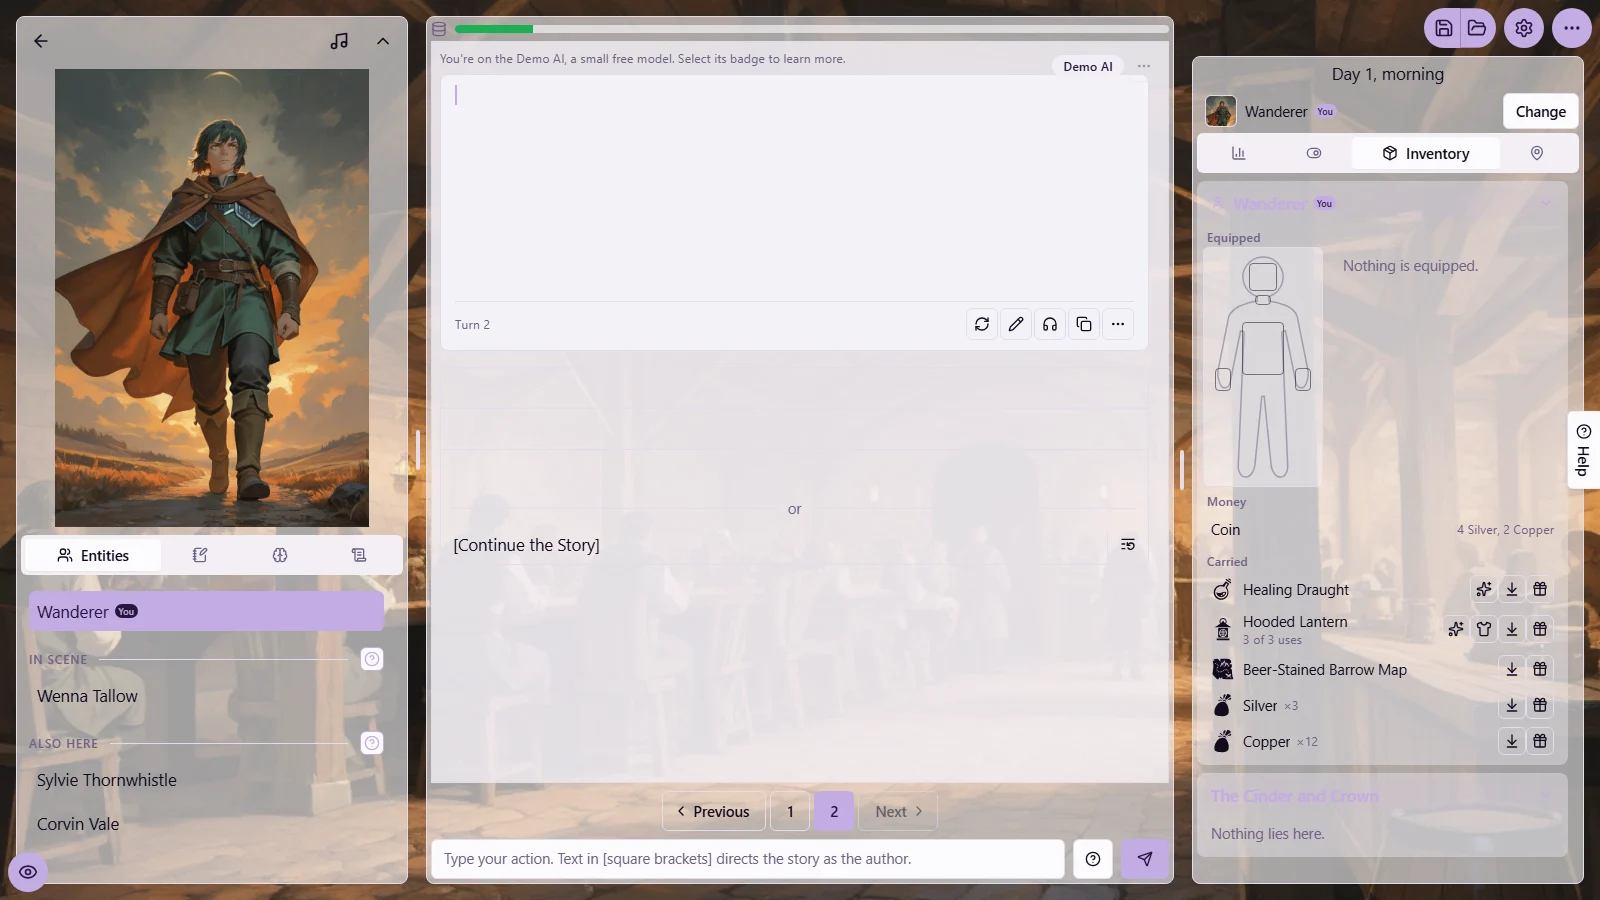
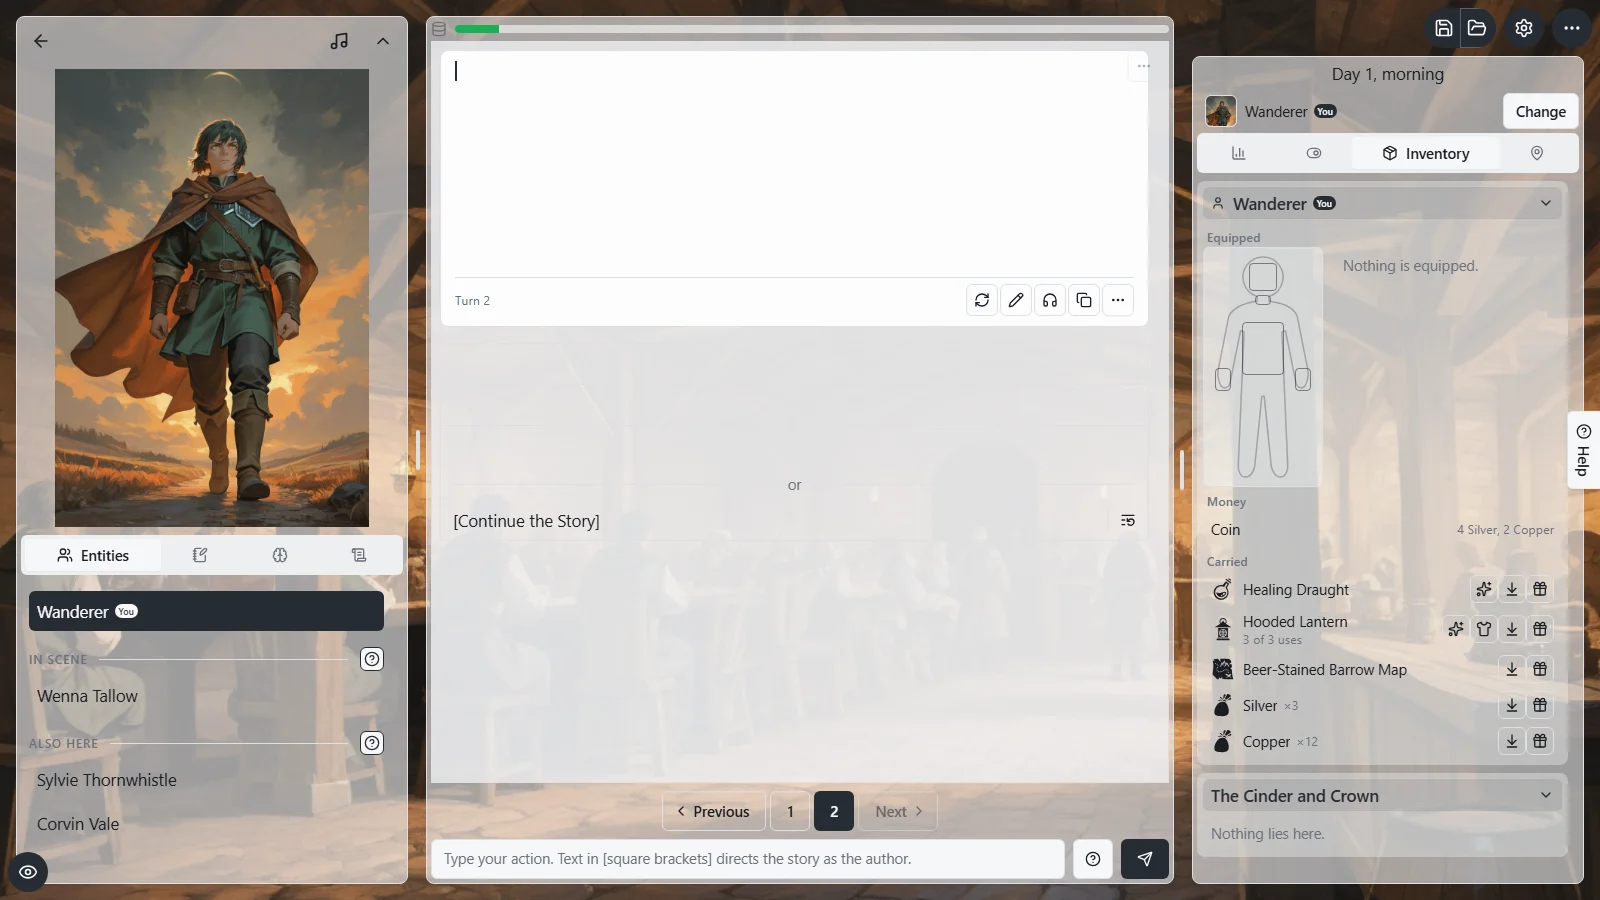
Make The Landing Showcase Neutral
Review found the purple hero frames and gradient hotspots clashing with the site's kept neutrals (Q4). The hero recaptures in Graphite, the tour opens on Graphite (Q11 reversed, Q13), and hotspots use the text color.
The Play button's pink edge was its gradient tiling into the transparent border; it now starts at the border box.
The header mismatch was a stale local site-dist build from before ticket 01, not code.

diff --git a/e2e/landing.spec.ts b/e2e/landing.spec.ts
@@ -202,14 +202,14 @@ test.describe('landing feature tour', () => {
       await centerStep(page, id);
       await expect(page.locator(`.step[data-step="${id}"]`)).toHaveClass(/\bcur\b/);
       await expect(page.locator('.step.cur')).toHaveCount(1);
-      const want = id === 'inventory' ? '/site/shots/hero/dark/inv-full.webp' : `/site/shots/purple/dark/${id}.webp`;
+      const want = id === 'inventory' ? '/site/shots/hero/dark/inv-full.webp' : `/site/shots/graphite/dark/${id}.webp`;
       await expect(page.locator('[data-base]')).toHaveAttribute('src', want);
       // The frame really decodes: a broken src has no natural width.
       await expect.poll(() => page.locator('[data-base]').evaluate((i: HTMLImageElement) => i.naturalWidth)).toBeGreaterThan(600);
     }
     // Scrolling back up returns the earlier screenshot.
     await centerStep(page, '02-game');
-    await expect(page.locator('[data-base]')).toHaveAttribute('src', '/site/shots/purple/dark/02-game.webp');
+    await expect(page.locator('[data-base]')).toHaveAttribute('src', '/site/shots/graphite/dark/02-game.webp');
   });
 
   test('every hotspot is reachable with Tab and shows its note on focus', async ({ page }, testInfo) => {
@@ -255,27 +255,27 @@ test.describe('landing feature tour', () => {
     const box = (await frame.boundingBox())!;
     const at = (pct: number) => box.x + box.width * pct;
     const y = box.y + box.height * 0.5;
-    expect(await pressed(page)).toBe('Purple theme');
+    expect(await pressed(page)).toBe('Graphite theme');
 
     // Short of the middle: the preview shows, then the current palette comes back.
     await page.mouse.move(at(0.95), y);
     await page.mouse.down();
     await page.mouse.move(at(0.7), y, { steps: 5 });
     expect(parseFloat(await cut(page))).toBeCloseTo(70, 0);
-    await expect(page.locator('[data-over]')).toHaveAttribute('src', '/site/shots/graphite/dark/02-game.webp');
+    await expect(page.locator('[data-over]')).toHaveAttribute('src', '/site/shots/purple/dark/02-game.webp');
     await expect(page.locator('[data-bar]')).not.toHaveClass(/\bhide\b/);
     await page.mouse.up();
     expect(await cut(page)).toBe('100%');
-    expect(await pressed(page)).toBe('Purple theme');
-    await expect(page.locator('[data-base]')).toHaveAttribute('src', '/site/shots/purple/dark/02-game.webp');
+    expect(await pressed(page)).toBe('Graphite theme');
+    await expect(page.locator('[data-base]')).toHaveAttribute('src', '/site/shots/graphite/dark/02-game.webp');
 
     // Past the middle: the next palette stays.
     await page.mouse.move(at(0.95), y);
     await page.mouse.down();
     await page.mouse.move(at(0.3), y, { steps: 5 });
     await page.mouse.up();
-    expect(await pressed(page)).toBe('Graphite theme');
-    await expect(page.locator('[data-base]')).toHaveAttribute('src', '/site/shots/graphite/dark/02-game.webp');
+    expect(await pressed(page)).toBe('Purple theme');
+    await expect(page.locator('[data-base]')).toHaveAttribute('src', '/site/shots/purple/dark/02-game.webp');
     expect(await cut(page)).toBe('100%');
 
     await page.getByRole('button', { name: 'Rose theme' }).click();
@@ -307,7 +307,7 @@ test.describe('landing feature tour', () => {
     const mid = trace.map((r) => parseFloat(r.cut)).filter((c) => c > 2 && c < 98);
     expect(mid.length, 'frames caught mid-sweep').toBeGreaterThan(10);
     for (let i = 1; i < mid.length; i++) expect(mid[i]).toBeLessThanOrEqual(mid[i - 1]);
-    expect(trace[trace.length - 1].pal).toBe('Graphite theme');
+    expect(trace[trace.length - 1].pal).toBe('Purple theme');
 
     await centerStep(page, 'inventory');
     await expect(page.locator('[data-swatches]')).toHaveCSS('visibility', 'hidden');
@@ -343,7 +343,7 @@ test.describe('landing feature tour', () => {
     await centerStep(page, '02-game');
     await page.mouse.move(0, 0);
     await page.waitForTimeout(SWEEP_EVERY_MS * 2 + 500);
-    expect(await pressed(page)).toBe('Purple theme');
+    expect(await pressed(page)).toBe('Graphite theme');
     expect(await cut(page)).toBe('100%');
     expect(await page.locator('[data-frame] .hot').first().evaluate((h) => getComputedStyle(h, '::after').animationName)).toBe('none');
     await context.close();
@@ -412,7 +412,7 @@ test.describe('landing feature tour', () => {
     await page.mouse.move(box.x + 6, box.y + box.height - 6);
     await expect.poll(() => cut(page)).toBe('100%');
     await page.waitForTimeout(SWEEP_EVERY_MS + 500);
-    expect(await pressed(page)).toBe('Purple theme');
+    expect(await pressed(page)).toBe('Graphite theme');
     expect(await cut(page)).toBe('100%');
   });
 

diff --git a/hosting/site/shots/hero/layout.js b/hosting/site/shots/hero/layout.js
@@ -6,24 +6,24 @@ window.FM_HERO_LAYOUT = {
  },
  "colors": {
   "light": {
-   "text": "rgb(19, 11, 30)",
-   "dialogue": "rgb(106, 52, 178)",
-   "action": "rgb(112, 96, 133)",
-   "choice": "rgb(19, 11, 30)",
-   "value": "rgb(19, 11, 30)",
-   "fill": "rgb(195, 172, 226)",
-   "descriptor": "rgb(112, 96, 133)",
+   "text": "rgb(26, 29, 35)",
+   "dialogue": "rgb(72, 89, 122)",
+   "action": "rgb(106, 112, 124)",
+   "choice": "rgb(26, 29, 35)",
+   "value": "rgb(26, 29, 35)",
+   "fill": "rgb(39, 44, 52)",
+   "descriptor": "rgb(106, 112, 124)",
    "success": "hsl(142 71% 40%)",
    "destructive": "hsl(0 84.2% 60.2%)"
   },
   "dark": {
-   "text": "rgb(245, 243, 247)",
-   "dialogue": "rgb(194, 162, 235)",
-   "action": "rgb(171, 159, 188)",
-   "choice": "rgb(245, 243, 247)",
-   "value": "rgb(245, 243, 247)",
-   "fill": "rgb(206, 188, 230)",
-   "descriptor": "rgb(171, 159, 188)",
+   "text": "rgb(244, 244, 246)",
+   "dialogue": "rgb(175, 184, 202)",
+   "action": "rgb(161, 166, 175)",
+   "choice": "rgb(244, 244, 246)",
+   "value": "rgb(244, 244, 246)",
+   "fill": "rgb(233, 234, 237)",
+   "descriptor": "rgb(161, 166, 175)",
    "success": "hsl(142 65% 45%)",
    "destructive": "hsl(0 72% 58%)"
   }
@@ -31,7 +31,7 @@ window.FM_HERO_LAYOUT = {
  "action": {
   "box": {
    "x": 469,
-   "y": 85,
+   "y": 61,
    "w": 665,
    "h": 20
   },
@@ -45,7 +45,7 @@ window.FM_HERO_LAYOUT = {
  "narration": {
   "box": {
    "x": 455,
-   "y": 117,
+   "y": 93,
    "w": 679,
    "h": 176
   },
@@ -58,19 +58,19 @@ window.FM_HERO_LAYOUT = {
   "paragraphs": [
    {
     "x": 455,
-    "y": 117,
+    "y": 93,
     "w": 679,
     "h": 48
    },
    {
     "x": 455,
-    "y": 181,
+    "y": 157,
     "w": 679,
     "h": 48
    },
    {
     "x": 455,
-    "y": 245,
+    "y": 221,
     "w": 679,
     "h": 48
    }
@@ -81,13 +81,13 @@ window.FM_HERO_LAYOUT = {
    "text": "I ask Wenna who the three adventurers were.",
    "row": {
     "x": 441,
-    "y": 368,
+    "y": 344,
     "w": 707,
     "h": 40
    },
    "box": {
     "x": 453,
-    "y": 377,
+    "y": 353,
     "w": 329.796875,
     "h": 22
    },
@@ -102,13 +102,13 @@ window.FM_HERO_LAYOUT = {
    "text": "I buy a drink and study the map by the fire.",
    "row": {
     "x": 441,
-    "y": 408,
+    "y": 384,
     "w": 707,
     "h": 41
    },
    "box": {
     "x": 453,
-    "y": 418,
+    "y": 394,
     "w": 315.953125,
     "h": 22
    },
@@ -123,13 +123,13 @@ window.FM_HERO_LAYOUT = {
    "text": "I head for the barrow before dark.",
    "row": {
     "x": 441,
-    "y": 449,
+    "y": 425,
     "w": 707,
     "h": 41
    },
    "box": {
     "x": 453,
-    "y": 459,
+    "y": 435,
     "w": 248.125,
     "h": 22
    },

diff --git a/hosting/index.html b/hosting/index.html
@@ -43,7 +43,8 @@
 
   .btn { display:inline-flex; align-items:center; gap:.5em; padding:.8em 1.6em; border-radius:10px;
     border:1px solid transparent; font-weight:600; text-decoration:none; cursor:pointer; font-size:1rem; }
-  .btn-play { background:var(--accent); background:var(--grad); color:var(--accent-ink); font-size:1.15rem;
+  /* The gradient starts at the border edge, so it does not tile into the transparent border. */
+  .btn-play { background:var(--accent); background:var(--grad) border-box; color:var(--accent-ink); font-size:1.15rem;
     box-shadow:0 8px 28px var(--glow); }
   .btn-play:hover { filter:brightness(1.1); }
   .btn-ghost { border-color:var(--edge); color:var(--text); }
@@ -77,8 +78,8 @@
   .frame .bar.hide { opacity:0; }
 
   .hot { position:absolute; width:22px; height:22px; margin:-11px 0 0 -11px; border-radius:50%; border:0; padding:0;
-    background:var(--grad); cursor:pointer; z-index:5; box-shadow:0 0 0 3px #fff9, 0 2px 8px #0008; }
-  .hot::after { content:''; position:absolute; inset:-6px; border-radius:50%; border:2px solid var(--g2);
+    background:var(--text); cursor:pointer; z-index:5; box-shadow:0 0 0 3px var(--bg), 0 2px 8px #0008; }
+  .hot::after { content:''; position:absolute; inset:-6px; border-radius:50%; border:2px solid var(--text);
     animation:tour-ping 2s ease-out infinite; }
   @keyframes tour-ping { from { transform:scale(.6); opacity:1; } to { transform:scale(1.6); opacity:0; } }
   .tip { position:absolute; z-index:6; max-width:220px; padding:.5rem .7rem; border-radius:8px; background:#0d0f12ee;
@@ -107,7 +108,7 @@
     .tour .steps { grid-row:3; }
     .tour .step { min-height:48vh; }
     .swatches .hint { display:none; }
-    .hot { width:14px; height:14px; margin:-7px 0 0 -7px; box-shadow:0 0 0 2px #fff9; }
+    .hot { width:14px; height:14px; margin:-7px 0 0 -7px; box-shadow:0 0 0 2px var(--bg); }
     .hot::after { inset:-4px; }
     .plat { grid-template-columns:1fr; }
   }

diff --git a/hosting/site/tour.js b/hosting/site/tour.js
@@ -4,8 +4,8 @@
   if (!tour) return;
 
   const PALETTES = [
-    { id: 'purple', name: 'Purple', swatch: '#a78bfa' },
     { id: 'graphite', name: 'Graphite', swatch: '#6b7280' },
+    { id: 'purple', name: 'Purple', swatch: '#a78bfa' },
     { id: 'forest', name: 'Forest', swatch: '#4f9a57' },
     { id: 'rose', name: 'Rose', swatch: '#e86a8a' },
     { id: 'monochrome', name: 'Monochrome', swatch: '#d4d4d4' },

diff --git a/docs-internal/specs/landing-showcase/spec.md b/docs-internal/specs/landing-showcase/spec.md
@@ -67,7 +67,7 @@ The prototype is `.scratch/landing-v2/` (untracked), served by the `scratch-land
 - **Hero demo: sequence.** The action types in. The narration words fade in one at a time at a model-like cadence, each over 250 ms with the app's reveal easing, with dialogue in the theme's dialogue color. The suggested actions appear in their rows, left-aligned. The stats then change. After a beat the side panel crossfades to the Inventory tab without the new item, then to the Inventory tab with it, and a ring in the theme's accent pulses around the new row. The turn holds for several seconds and plays again. The demo starts when the hero scrolls into view.
 - **Hero demo: stat changes.** The page copies the app's stat bar rule: the accent fill slides from the old value to the new one, and a band covers the span between them, green for a gain and red for a loss, growing from the old value. A signed readout in the same color fades in beside the value. Timings match the app's (500 ms, the app's easing).
 - **Hero demo: reduced motion.** The finished turn shows at once: full text, choices, changed stats with their bands, and the Inventory tab with the new item.
-- **Capture.** The site screenshot script gains the hero frames. For each of light and dark, in the purple palette, it writes: the Stats tab with the turn text, choices, stat values, fills and descriptors hidden; the Inventory tab before the item arrives; the Inventory tab after it arrives; and the full, unhidden Inventory frame for the tour. Hidden elements keep their space, so the frames keep the app's real layout.
+- **Capture.** The site screenshot script gains the hero frames. For each of light and dark, in the Graphite palette (Q13), it writes: the Stats tab with the turn text, choices, stat values, fills and descriptors hidden; the Inventory tab before the item arrives; the Inventory tab after it arrives; and the full, unhidden Inventory frame for the tour. Hidden elements keep their space, so the frames keep the app's real layout.
 - **Capture layout data.** The capture also writes a small data file the page loads as a script, so it works with no fetch. It holds the boxes of the action line, the narration, each choice and each stat row (value, bar, descriptor), the side panel's box, the new item row's box, and each mode's colors: text, dialogue, action, choice, stat value, fill, descriptor, success and destructive.
 - **Capture: prepared game.** The shared demo-game helper learns to place Item Copies on the player, and the save leaves the global stat list empty so only the player's stats show. Each saved state loads in a fresh browser context, because the fixture modules are cached per context. AI calls get an empty successful reply instead of a refusal, so the endpoint error dialog never covers a frame. The capture checks that the scene's text and the new item are on screen before it writes, the same way the gameplay capture already rejects a clipped scene.
 - **Ruling Q4 (ticket 01): neutrals stay.** Only the accent, the gradient, the wordmark and the font change. The site keeps its current background, text and border colors; the prototype's purple-tinted neutrals do not ship. The solid accent is the gradient's first stop (`#a78bfa` dark, `#7c3aed` light).
@@ -77,7 +77,8 @@ The prototype is `.scratch/landing-v2/` (untracked), served by the `scratch-land
 - **Ruling Q8 (ticket 03): pacing.** The prototype's numbers: 900 ms lead-in, 24 ms per action character, 35–90 ms per word, choices 300 ms after the last word, stats 500 ms later, Inventory before at +2.6 s and after at +0.9 s, 6.5 s hold, then loop. The user judges the pacing in a real browser.
 - **Ruling Q9 (ticket 04): changelog.** The ticket branch writes no fragment. The spec session rewords ticket 03's home-page entry on main after 04 lands, using wording 04 sends. This carries out Q7.
 - **Ruling Q10 (ticket 04): thumbnails.** The gallery thumbnails and their capture step go. The image-versioning test keeps its generic gallery fixture path.
-- **Ruling Q11 (ticket 04): palette order.** Purple first, then Graphite, Forest, Rose, Monochrome.
+- **Ruling Q11 (ticket 04): palette order.** Graphite first, then Purple, Forest, Rose, Monochrome. Reversed from Purple-first after the user's review: the site keeps neutral colors (Q4), so the tour opens on the app's neutral default.
+- **Ruling Q13 (review): neutral captures and hotspots.** The hero frames are captured in Graphite, not purple, so the game screen matches the site's neutral colors. Tour hotspots are neutral too: the text color with a background-colored ring. The Play button's gradient starts at its border edge, so it does not tile into the transparent border.
 - **Ruling Q12 (ticket 04): platform cards.** Each card links: browser to the web app, desktop to the latest release, Android to the install guide. The footer's download row stays.
 - **Ruling Q1 (ticket 02): turn data file.** A plain script in the site's files that sets one global object; the page loads it with a script tag and the capture reads it in a Node sandbox. It holds `action`, `narration`, `choices`, the stat changes (`[{ name, change }]`: Faith −4, Renown +5) and the new item's name. The location and entity stay in the capture.
 - **Ruling Q2 (ticket 02): demo-game helper.** Item Copies are a new scene field, placed on the player. The empty AI reply replaces the refusal for every scene. The empty global stat list is opt-in per scene, because the gallery's game screen shows its Stats tab from the world's global stats.
@@ -113,7 +114,7 @@ The prototype is `.scratch/landing-v2/` (untracked), served by the `scratch-land
 ## Out of Scope
 
 - New screenshots for the world editor, scripts, community browsing, voice or the desktop engine. The Create step keeps the world-details screenshot.
-- Hero frames in palettes other than purple.
+- Hero frames in palettes other than Graphite.
 - A real AI call or a playable demo on the page.
 - The social-embed image and the favicon.
 - The trailer, the store page and the app's own title screen.
